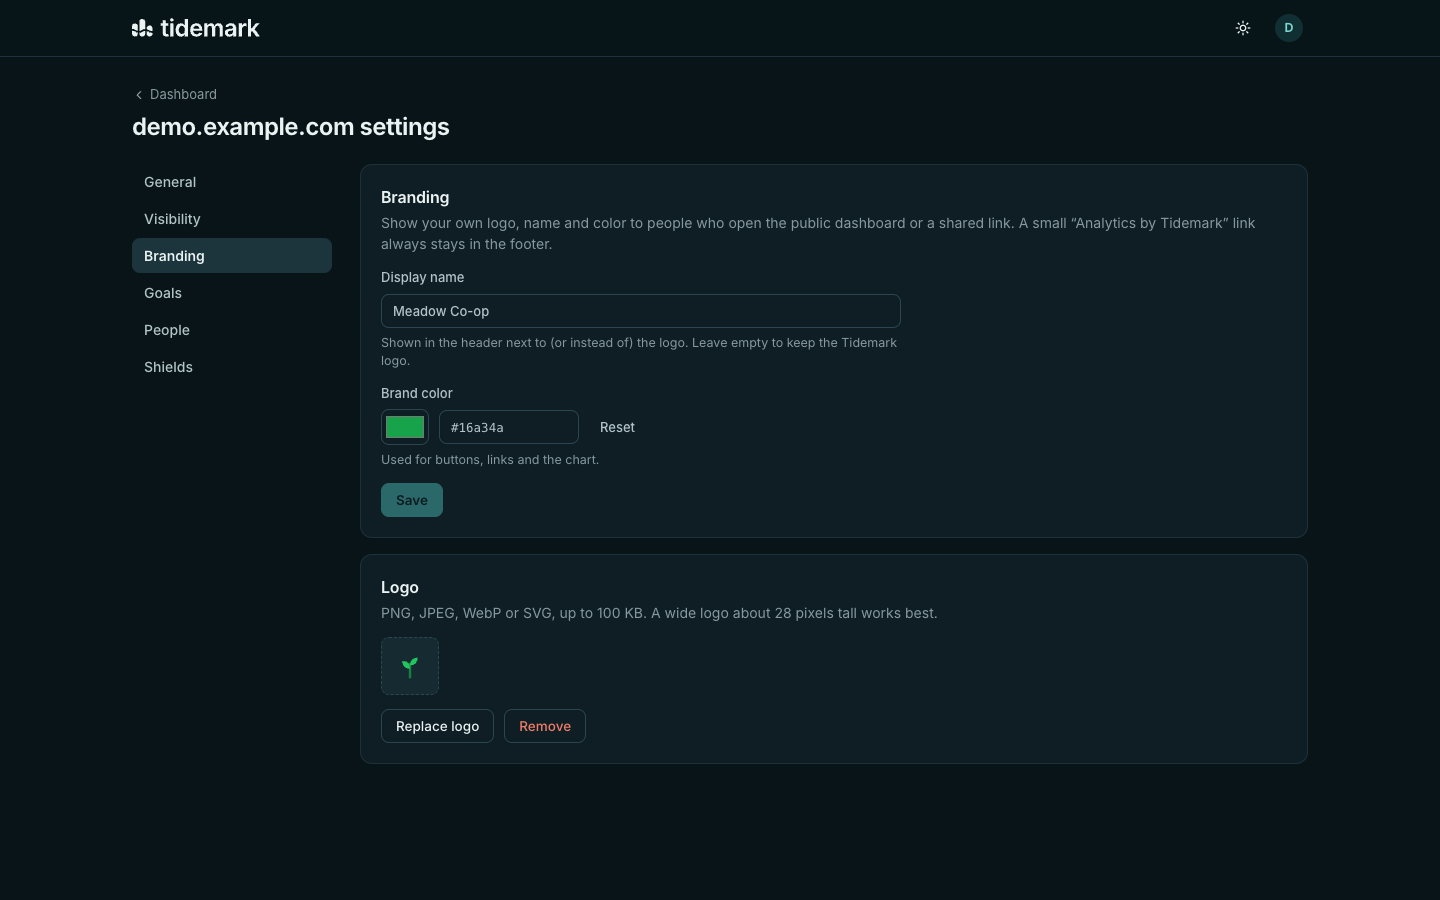
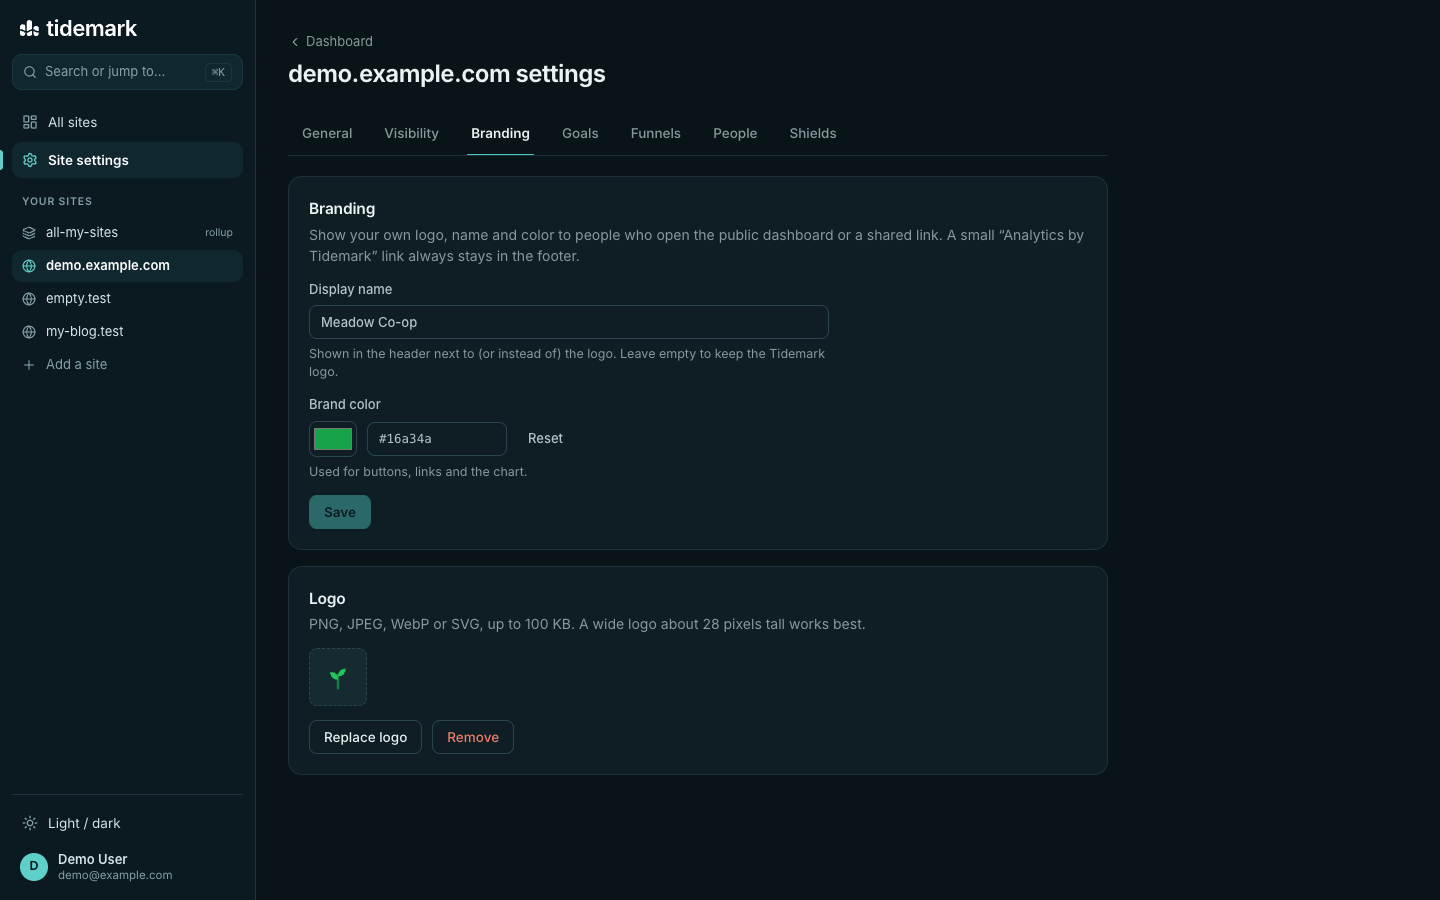
Update screenshots for the new interface

diff --git a/README.md b/README.md
@@ -18,6 +18,8 @@ Update the container from the Docker tab. Database migrations run the first time
 ## Screenshots
 
 ![Dashboard](screenshots/dashboard-dark.png)
+![Reports](screenshots/sections-dark.png)
+![Command palette](screenshots/command-palette-dark.png)
 ![Branded dashboard](screenshots/branding-coffee-light.png)
 
 Licensed under the MIT license.
